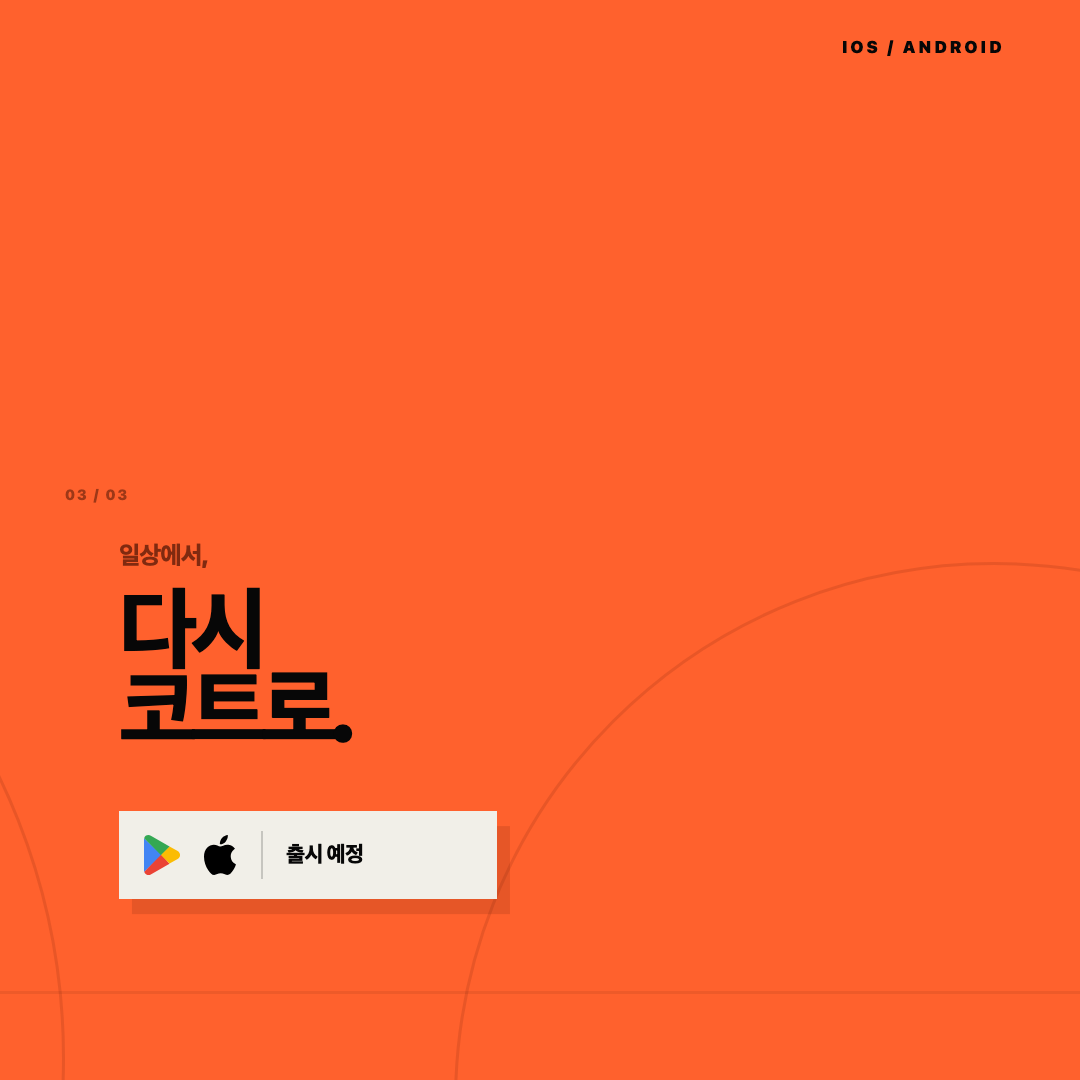
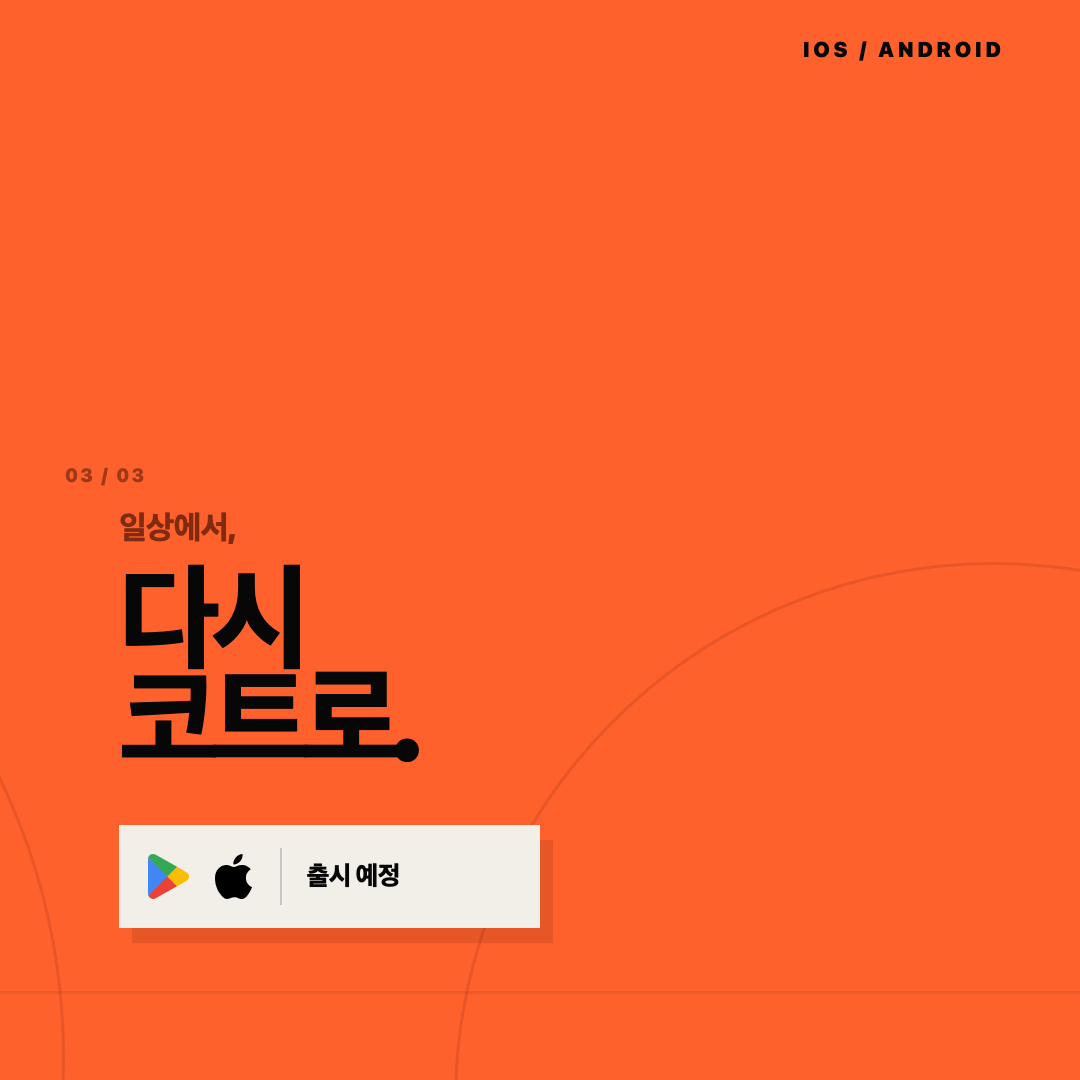
Increase triptych typography

Changed region(s): [[0.0917, 0.7333, 0.5194, 0.8861], [0.0611, 0.4278, 0.3972, 0.7028], [0.7333, 0.0306, 0.9472, 0.0611]]

diff --git a/Backcourt-Social/triptych.css b/Backcourt-Social/triptych.css
@@ -16,26 +16,26 @@ a { color: inherit; text-decoration: none; }
 .triptych-shell { width:100%; aspect-ratio:3/1; overflow:hidden; container-type:size; background:var(--orange); border:1px solid #292929; box-shadow:0 20px 50px rgba(0,0,0,.28); }
 .triptych { position:relative; width:100%; height:100%; overflow:hidden; color:var(--ink); background:var(--orange); letter-spacing:-.045em; }
 .mega-type { position:absolute; z-index:0; top:5cqh; left:18cqh; display:flex; align-items:flex-start; gap:8cqh; color:rgba(117,38,14,.19); font-family:Arial,"Apple SD Gothic Neo",sans-serif; font-size:30cqh; line-height:.9; font-weight:950; letter-spacing:-.08em; white-space:nowrap; }
-.platform { position:absolute; z-index:3; top:3.4cqh; right:7cqh; font-size:1.55cqh; font-weight:950; letter-spacing:.18em; }
-.edition { position:absolute; z-index:3; left:6cqh; top:3.4cqh; color:rgba(117,38,14,.9); font-size:1.45cqh; font-weight:950; letter-spacing:.15em; }
-.panel-number { position:absolute; z-index:3; top:45cqh; color:rgba(117,38,14,.7); font-size:1.35cqh; font-weight:900; letter-spacing:.12em; }
+.platform { position:absolute; z-index:3; top:3.4cqh; right:7cqh; font-size:1.95cqh; font-weight:950; letter-spacing:.18em; }
+.edition { position:absolute; z-index:3; left:6cqh; top:3.4cqh; color:rgba(117,38,14,.9); font-size:1.8cqh; font-weight:950; letter-spacing:.15em; }
+.panel-number { position:absolute; z-index:3; top:43cqh; color:rgba(117,38,14,.7); font-size:1.75cqh; font-weight:900; letter-spacing:.12em; }
 .panel-number.p1 { left:6cqh; }
 .panel-number.p2 { left:106cqh; }
 .panel-number.p3 { left:206cqh; }
-.left-copy { position:absolute; z-index:3; left:6cqh; top:52cqh; }
-.left-copy p { margin:0 0 1.5cqh; color:rgba(117,38,14,.92); font-size:2.3cqh; font-weight:900; }
-.left-copy h2 { margin:0; font-size:9.2cqh; line-height:1; font-weight:950; letter-spacing:-.085em; }
-.left-copy i { width:6cqh; height:.7cqh; margin:4.6cqh 0 3.2cqh; display:block; background:var(--ink); }
-.left-copy span { color:rgba(117,38,14,.78); font-size:1.55cqh; font-weight:950; letter-spacing:.16em; }
+.left-copy { position:absolute; z-index:3; left:6cqh; top:49cqh; }
+.left-copy p { margin:0 0 1.5cqh; color:rgba(117,38,14,.92); font-size:3cqh; font-weight:900; }
+.left-copy h2 { margin:0; font-size:12.4cqh; line-height:.96; font-weight:950; letter-spacing:-.085em; }
+.left-copy i { width:7.5cqh; height:.8cqh; margin:4.4cqh 0 3cqh; display:block; background:var(--ink); }
+.left-copy span { color:rgba(117,38,14,.78); font-size:2cqh; font-weight:950; letter-spacing:.14em; }
 .hero-icon { position:absolute; z-index:3; left:118cqh; top:34cqh; width:64cqh; height:64cqh; object-fit:contain; transform:rotate(-3deg); filter:drop-shadow(2.5cqh 2.9cqh 0 rgba(117,38,14,.2)); }
-.right-copy { position:absolute; z-index:3; left:211cqh; top:50cqh; }
-.right-copy > p { margin:0 0 1.6cqh; color:rgba(117,38,14,.92); font-size:2.3cqh; font-weight:900; }
-.right-copy > h2 { margin:0; font-size:8.4cqh; line-height:.88; font-weight:950; letter-spacing:-.085em; }
-.launch { width:35cqh; height:8.2cqh; margin-top:5.8cqh; padding:0 2.2cqh; display:flex; align-items:center; gap:1.7cqh; background:var(--paper); box-shadow:1.2cqh 1.4cqh 0 rgba(117,38,14,.18); }
-.launch img { width:3.65cqh; height:3.65cqh; object-fit:contain; }
+.right-copy { position:absolute; z-index:3; left:211cqh; top:47cqh; }
+.right-copy > p { margin:0 0 1.6cqh; color:rgba(117,38,14,.92); font-size:3cqh; font-weight:900; }
+.right-copy > h2 { margin:0; font-size:10.8cqh; line-height:.87; font-weight:950; letter-spacing:-.085em; }
+.launch { width:39cqh; height:9.5cqh; margin-top:5.2cqh; padding:0 2.5cqh; display:flex; align-items:center; gap:1.9cqh; background:var(--paper); box-shadow:1.2cqh 1.4cqh 0 rgba(117,38,14,.18); }
+.launch img { width:4.15cqh; height:4.15cqh; object-fit:contain; }
 .launch .apple-logo { filter:none; }
-.launch i { width:.18cqh; height:4.5cqh; margin-left:.3cqh; background:rgba(7,7,7,.18); }
-.launch strong { margin-left:.4cqh; font-size:2.05cqh; font-weight:950; white-space:nowrap; }
+.launch i { width:.18cqh; height:5.3cqh; margin-left:.3cqh; background:rgba(7,7,7,.18); }
+.launch strong { margin-left:.4cqh; font-size:2.45cqh; font-weight:950; white-space:nowrap; }
 .court-lines i, .court-lines b, .court-lines em { position:absolute; z-index:1; display:block; border:.28cqh solid rgba(117,38,14,.17); border-radius:50%; }
 .court-lines i { left:-38cqh; bottom:-50cqh; width:100cqh; height:100cqh; }
 .court-lines b { left:86cqh; bottom:-58cqh; width:120cqh; height:120cqh; }
